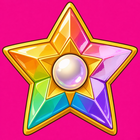
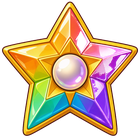
Cut magenta from Jetpack sprites and soften the cave frame.
Flood-fill backgrounds to alpha, cache-bust art URLs, and keep
pickups/hazards in the flight lane so a bump is still possible.

diff --git a/src/games/jetpack/index.tsx b/src/games/jetpack/index.tsx
@@ -50,17 +50,17 @@ function artFor(profileId: ProfileId): ArtPack {
   switch (profileId) {
     case "keira":
       return {
-        hero: "/games/jetpack/keira-hero.png",
-        hazard: "/games/jetpack/keira-hazard.png",
-        coin: "/games/jetpack/keira-coin.png",
-        bg: "/games/jetpack/keira-bg.jpg",
+        hero: "/games/jetpack/keira-hero.png?v=2",
+        hazard: "/games/jetpack/keira-hazard.png?v=2",
+        coin: "/games/jetpack/keira-coin.png?v=2",
+        bg: "/games/jetpack/keira-bg.jpg?v=2",
       };
     case "luke":
       return {
-        hero: "/games/jetpack/luke-hero.png",
-        hazard: "/games/jetpack/luke-hazard.png",
-        coin: "/games/jetpack/luke-coin.png",
-        bg: "/games/jetpack/luke-bg.jpg",
+        hero: "/games/jetpack/luke-hero.png?v=2",
+        hazard: "/games/jetpack/luke-hazard.png?v=2",
+        coin: "/games/jetpack/luke-coin.png?v=2",
+        bg: "/games/jetpack/luke-bg.jpg?v=2",
       };
     default: {
       const _exhaustive: never = profileId;
@@ -133,10 +133,6 @@ export default function JetpackGame({
   const theme = PROFILES[profileId];
   const isKeira = profileId === "keira";
 
-  pausedRef.current = paused;
-  overRef.current = over;
-  onScoreRef.current = onScoreChange;
-
   const bumpScore = useCallback((n: number) => {
     scoreRef.current = n;
     setScore(n);
@@ -161,14 +157,19 @@ export default function JetpackGame({
   }, [bumpScore]);
 
   useEffect(() => {
-    reset();
-  }, [profileId, reset]);
+    pausedRef.current = paused;
+  }, [paused]);
+
+  useEffect(() => {
+    overRef.current = over;
+  }, [over]);
+
+  useEffect(() => {
+    onScoreRef.current = onScoreChange;
+  }, [onScoreChange]);
 
   useEffect(() => {
     let cancelled = false;
-    setArtReady(false);
-    setArtError(false);
-    artRef.current = null;
     const pack = artFor(profileId);
     Promise.all([
       loadImage(pack.hero),
@@ -179,6 +180,21 @@ export default function JetpackGame({
       .then(([hero, hazard, coin, bg]) => {
         if (cancelled) return;
         artRef.current = { hero, hazard, coin, bg };
+        y.current = H / 2;
+        vy.current = 0;
+        holding.current = false;
+        dist.current = 0;
+        obs.current = [];
+        pops.current = [];
+        sparks.current = [];
+        bgX.current = 0;
+        grace.current = GRACE_FRAMES;
+        shake.current = 0;
+        scoreRef.current = 0;
+        bumpScore(0);
+        setOver(false);
+        overRef.current = false;
+        setArtError(false);
         setArtReady(true);
       })
       .catch(() => {
@@ -187,7 +203,7 @@ export default function JetpackGame({
     return () => {
       cancelled = true;
     };
-  }, [profileId]);
+  }, [profileId, bumpScore]);
 
   useEffect(() => {
     const onKey = (e: KeyboardEvent) => {
@@ -235,23 +251,13 @@ export default function JetpackGame({
         ctx.fillRect(0, 0, W, H);
       }
 
-      ctx.fillStyle = isKeira ? "rgba(244,114,182,0.55)" : "rgba(14,165,233,0.45)";
-      ctx.fillRect(0, 0, W, 28);
-      ctx.fillRect(0, H - 28, W, 28);
-      ctx.fillStyle = isKeira ? "#fb7185" : "#334155";
-      for (let i = 0; i < 10; i++) {
-        const tx = ((i * 48 - bgX.current * 1.4) % (W + 48)) - 24;
-        ctx.beginPath();
-        ctx.moveTo(tx, 0);
-        ctx.lineTo(tx + 18, 28);
-        ctx.lineTo(tx + 36, 0);
-        ctx.fill();
-        ctx.beginPath();
-        ctx.moveTo(tx, H);
-        ctx.lineTo(tx + 18, H - 28);
-        ctx.lineTo(tx + 36, H);
-        ctx.fill();
-      }
+      const rim = ctx.createLinearGradient(0, 0, 0, H);
+      rim.addColorStop(0, isKeira ? "rgba(244,114,182,0.35)" : "rgba(15,23,42,0.4)");
+      rim.addColorStop(0.08, "rgba(0,0,0,0)");
+      rim.addColorStop(0.92, "rgba(0,0,0,0)");
+      rim.addColorStop(1, isKeira ? "rgba(251,113,133,0.4)" : "rgba(15,23,42,0.45)");
+      ctx.fillStyle = rim;
+      ctx.fillRect(0, 0, W, H);
 
       for (const s of sparks.current) {
         ctx.globalAlpha = Math.max(0, s.life / 18);
@@ -330,12 +336,13 @@ export default function JetpackGame({
         if (spawnAt === 0) spawnAt = ts + FIRST_SPAWN_MS;
         if (ts >= spawnAt) {
           spawnAt = ts + SPAWN_MS;
-          const coin = Math.random() < 0.68;
+          const coin = Math.random() < 0.62;
           const kind: Kind = coin ? "coin" : "rock";
           const size = kind === "coin" ? 46 : 58;
+          const lane = CEIL + 20 + Math.random() * (FLOOR - CEIL - 40);
           obs.current.push({
             x: W + 36,
-            y: CEIL + 24 + Math.random() * (FLOOR - CEIL - 48),
+            y: lane,
             w: size,
             h: size,
             kind,
@@ -348,8 +355,7 @@ export default function JetpackGame({
         const pr = 16;
         for (const o of obs.current) {
           if (o.taken) continue;
-          const orad = o.kind === "coin" ? 20 : 16;
-          if (!hit(PLAYER_X, y.current, pr, o.x, o.y, orad)) continue;
+          if (!hit(PLAYER_X, y.current, pr, o.x, o.y, 20)) continue;
           if (o.kind === "coin") {
             o.taken = true;
             const n = scoreRef.current + 5;
